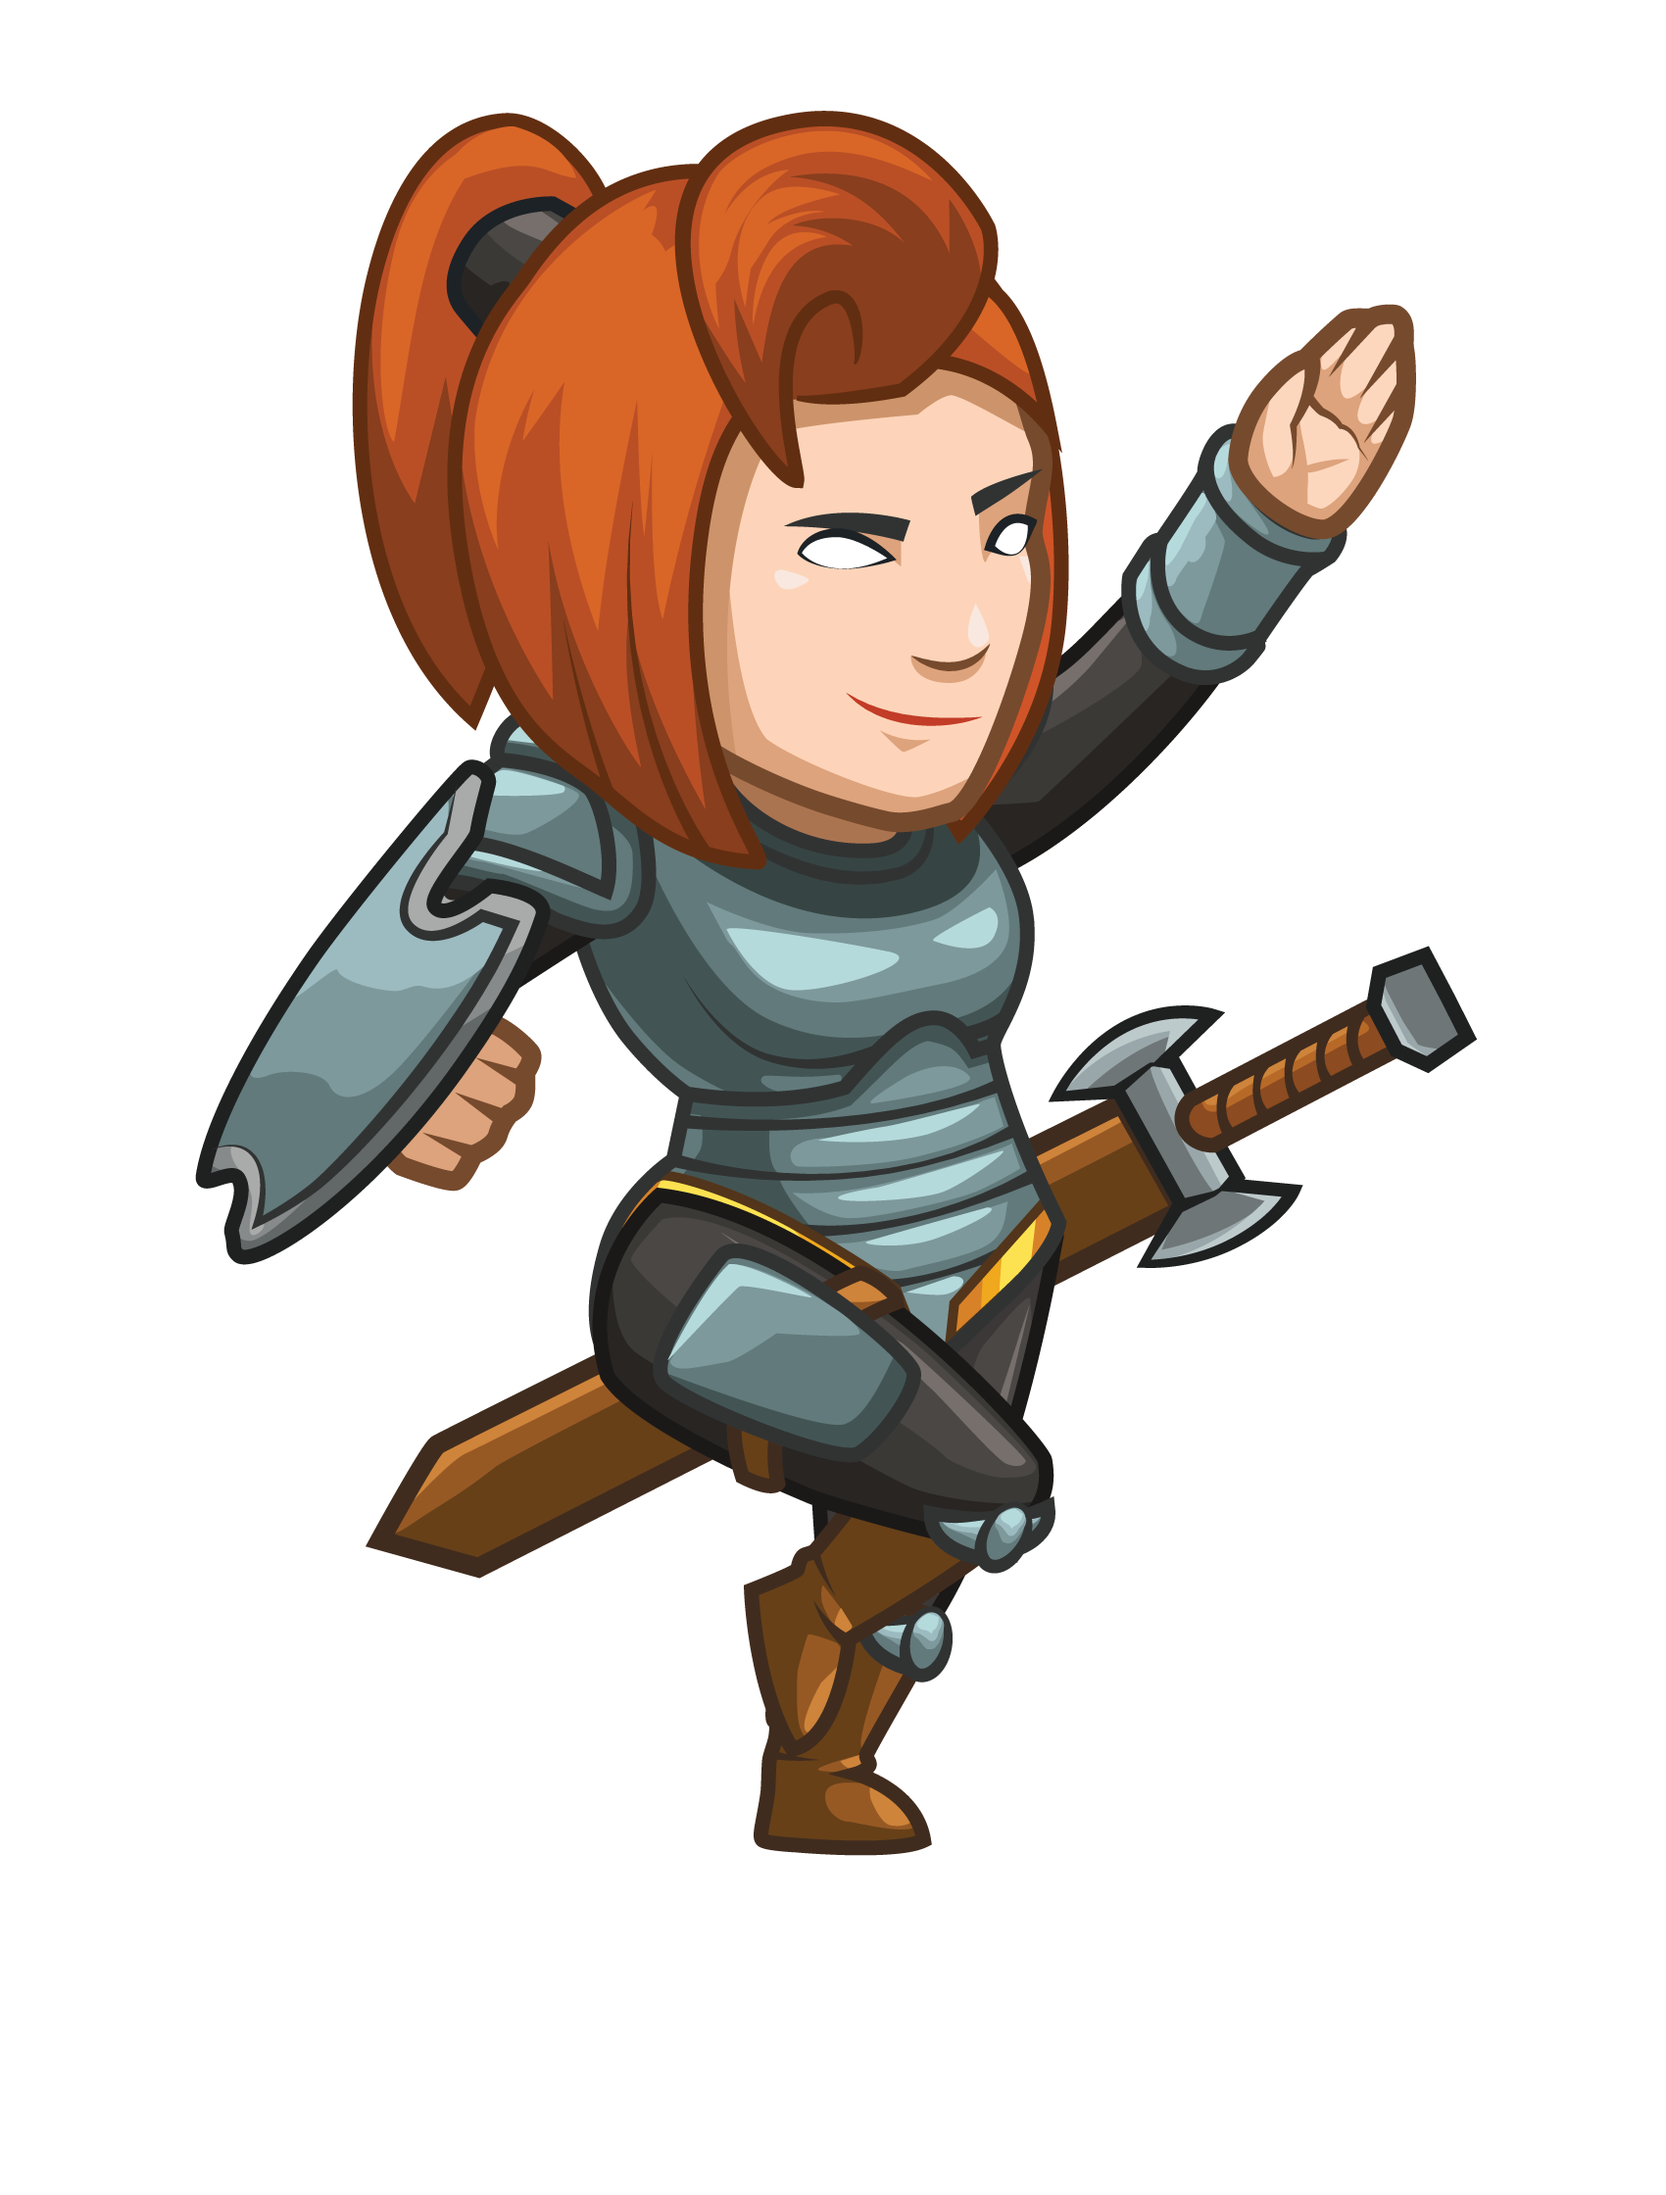
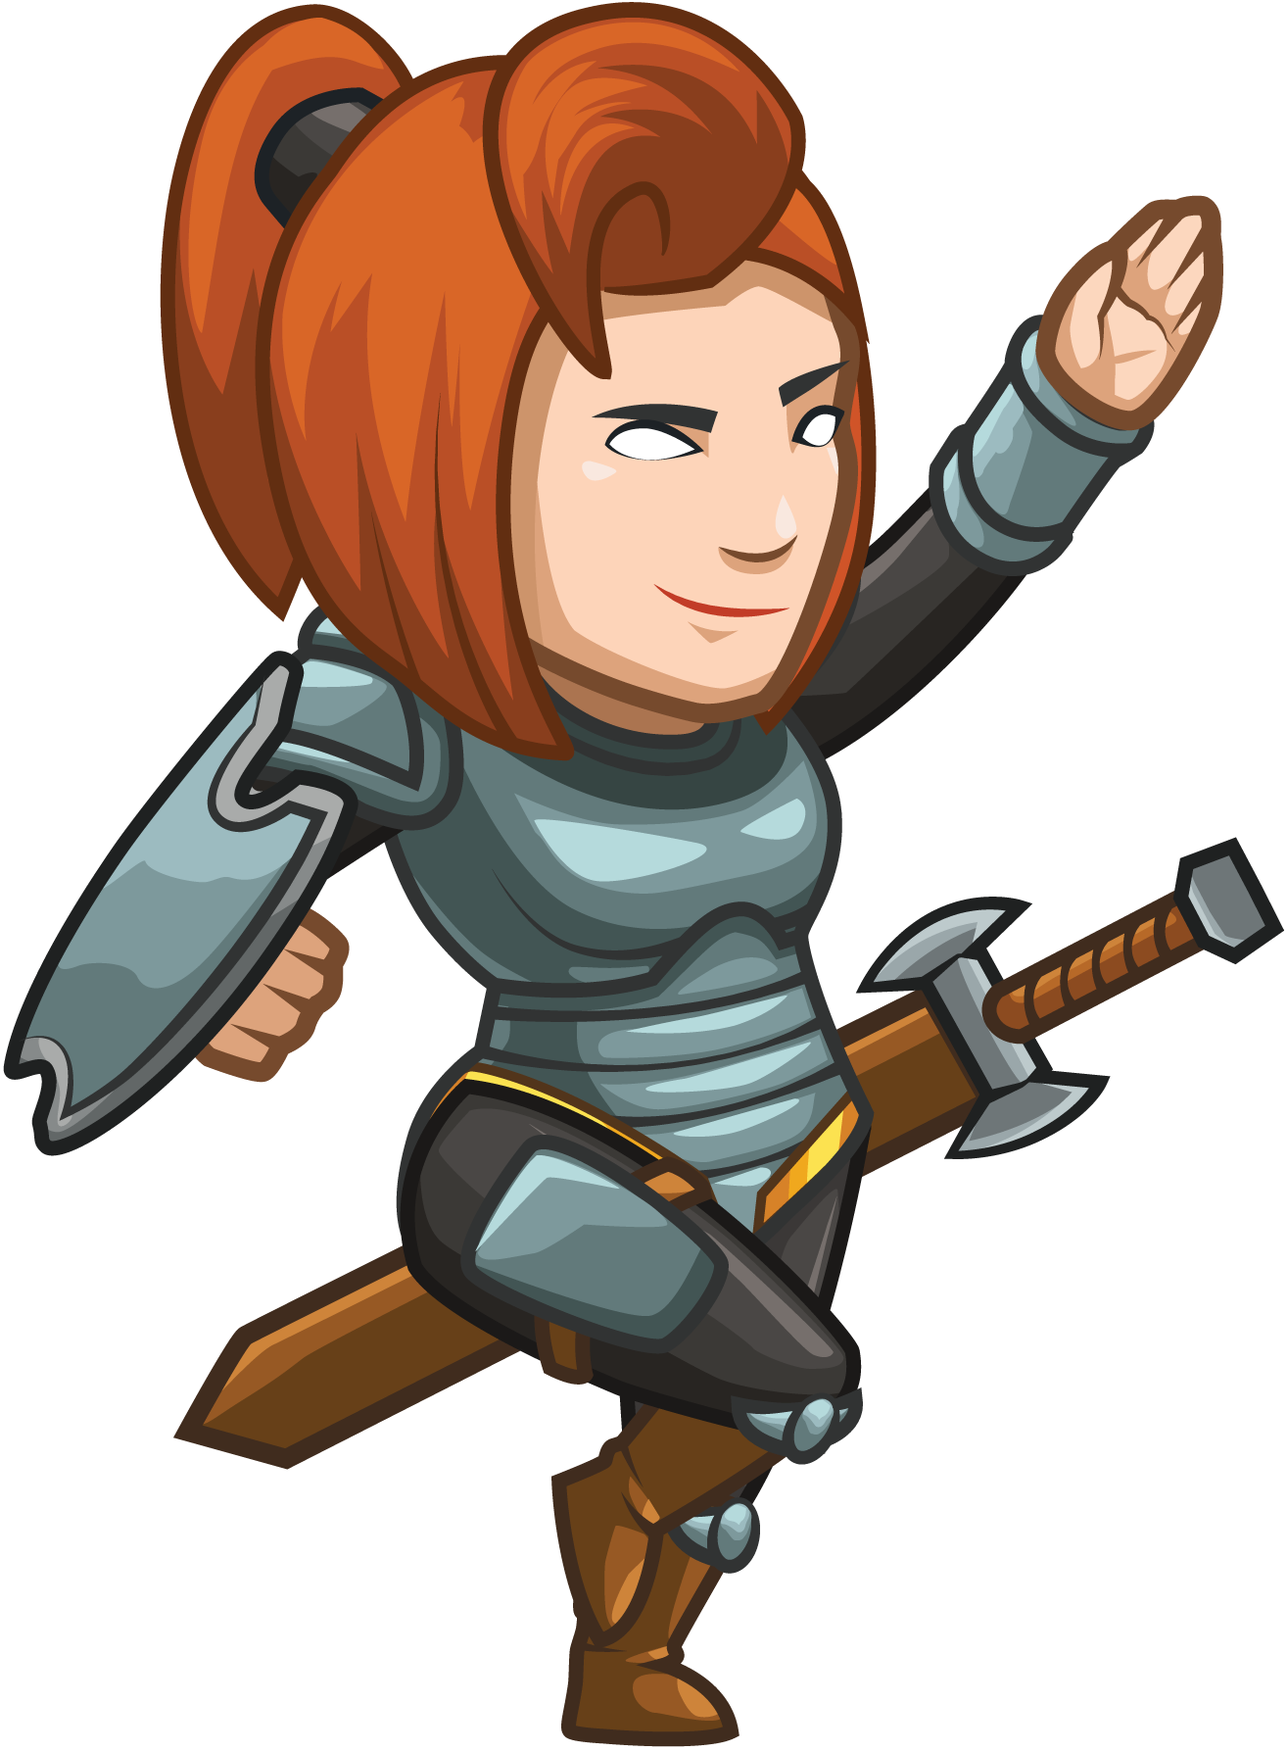
Use an equally hacky but less broken way to support quickly going back. - Add lines of code calculating route. - Recrop Arryn and Anya - Final tweaks.

diff --git a/app/styles/admin/admin-outcomes-report.sass b/app/styles/admin/admin-outcomes-report.sass
@@ -9,11 +9,21 @@
   margin-right: auto
   width: 8.5in
   background-color: white
-  
+  .clear-both
+    clear: both
+    
+  .menu
+    position: fixed
+    left: 5px
+    top: 5px
+
+    @media print
+      display: none
+
   .header-art
     float: right
-    width: 2.25in
-    margin-top: 0.8in
+    width: 2in
+    margin-top: 0.35in
     margin-right: 0.4in
     transform: scaleX(-1)
 
@@ -53,6 +63,7 @@
     p
       line-height: 18pt
       font-size: 15pt
+      margin-bottom: 0.1in
 
 
   .course
@@ -103,7 +114,7 @@
       font-size: 18pt
 
   .block
-    margin-top: 0.25in
+    margin-top: 0
     margin-left: 0.5in
     margin-right: 0.5in
 
@@ -194,11 +205,10 @@
     page-break-inside: avoid
 
   img.anya
-    margin-left: 0.2in
-    margin-right: -0.2in
-    margin-top: 0.2in
+    margin-left: 0.5in
+    margin-top: 0.5in
     float: left
-    width: 2.5in
+    width: 1.75in
   
   .room-for-anya
     margin-left: 2.5in
